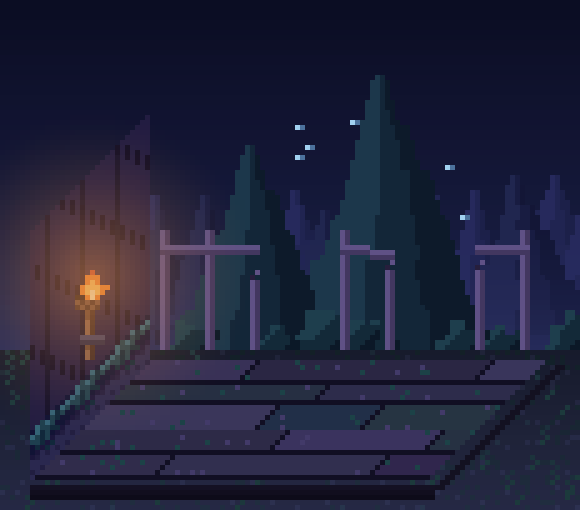
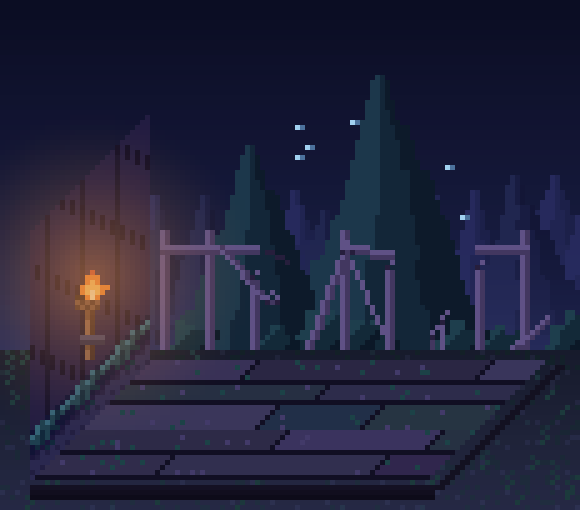
Balcony forest: broken fence pieces between posts (leaning post, dangling rails, jagged stumps, leaning plank)
Claude-Session: https://claude.ai/code/session_01FPZSaKiVNU2zED737yZX4w

diff --git a/tools/render_balcony_forest.py b/tools/render_balcony_forest.py
@@ -60,6 +60,23 @@ def main():
         for x in range(xa, xb + 2):
             y = int(by - RAIL + 3 + (x - xa) * (1 if a == 4 else 0) // 6)
             put(x, y, WOODL); put(x, y + 1, WOOD)
+    # 부서진 울타리 조각(기둥 사이사이): 기울어진 기둥, 한쪽만 걸려 늘어진 가로대, 들쭉날쭉 부러진 그루터기, 쓰러져 기댄 널빤지
+    def beam(x0, y0, x1, y1, th=2):                                      # 두께 th 의 나무 막대(밝은 면 + 어두운 면)
+        n = int(max(abs(x1 - x0), abs(y1 - y0))) or 1
+        for s in range(n + 1):
+            xx, yy = round(x0 + (x1 - x0) * s / n), round(y0 + (y1 - y0) * s / n)
+            put(xx, yy, WOODL)
+            for k in range(1, th): put(xx + (1 if abs(x1 - x0) < abs(y1 - y0) else 0), yy + (0 if abs(x1 - x0) < abs(y1 - y0) else k), WOOD if k == th - 1 else WOODL)
+    def jag(x, y, w=3):                                                  # 부러진 끝의 들쭉날쭉한 단면
+        for k in range(w): put(x + k, y - (k % 2) * 2, WOODD); put(x + k, y - 1 - (k % 2), WOODL)
+    g3, g6 = posts[3], posts[6]
+    beam(g3 + 1, int(by), g3 + 9, int(by - RAIL + 4)); jag(g3 + 9, int(by - RAIL + 4))                  # 빠진 기둥 자리에 비스듬히 기운 기둥
+    beam(posts[1] + 2, int(by - RAIL + 3), posts[1] + 12, int(by - RAIL + 14), 2); jag(posts[1] + 12, int(by - RAIL + 14))    # 한쪽만 걸려 아래로 늘어진 가로대
+    beam(posts[4] + 2, int(by - RAIL + 6), posts[4] + 8, int(by - 6), 1)                                  # 가로대 조각이 기둥에 기대 늘어짐
+    for dx, hh in ((0, 5), (2, 8), (4, 3)): [put(g6 + dx, int(by) - k, WOODL if dx == 2 else WOOD) for k in range(hh)]      # 들쭉날쭉 부러진 그루터기
+    jag(g6, int(by) - 5, 2); jag(g6 + 2, int(by) - 8, 2)
+    beam(posts[7] + 4, int(by), posts[7] + 14, int(by - 9), 2)                                           # 쓰러져 다른 기둥에 기댄 널빤지
+    for k in range(5): put(posts[2] + 3 + k, int(by - RAIL + 4 + k // 2), WOODD)                          # 부러진 기둥 옆 갈라진 파편
     # 땅: 숲 바닥이 지평선 아래 전체에 이어진다(판 아래·앞·오른쪽으로 계속): 흙 + 이끼 + 풀 + 가는 길
     gr = random.Random(9)
     for Y in range(int(by) - 2, CH):
